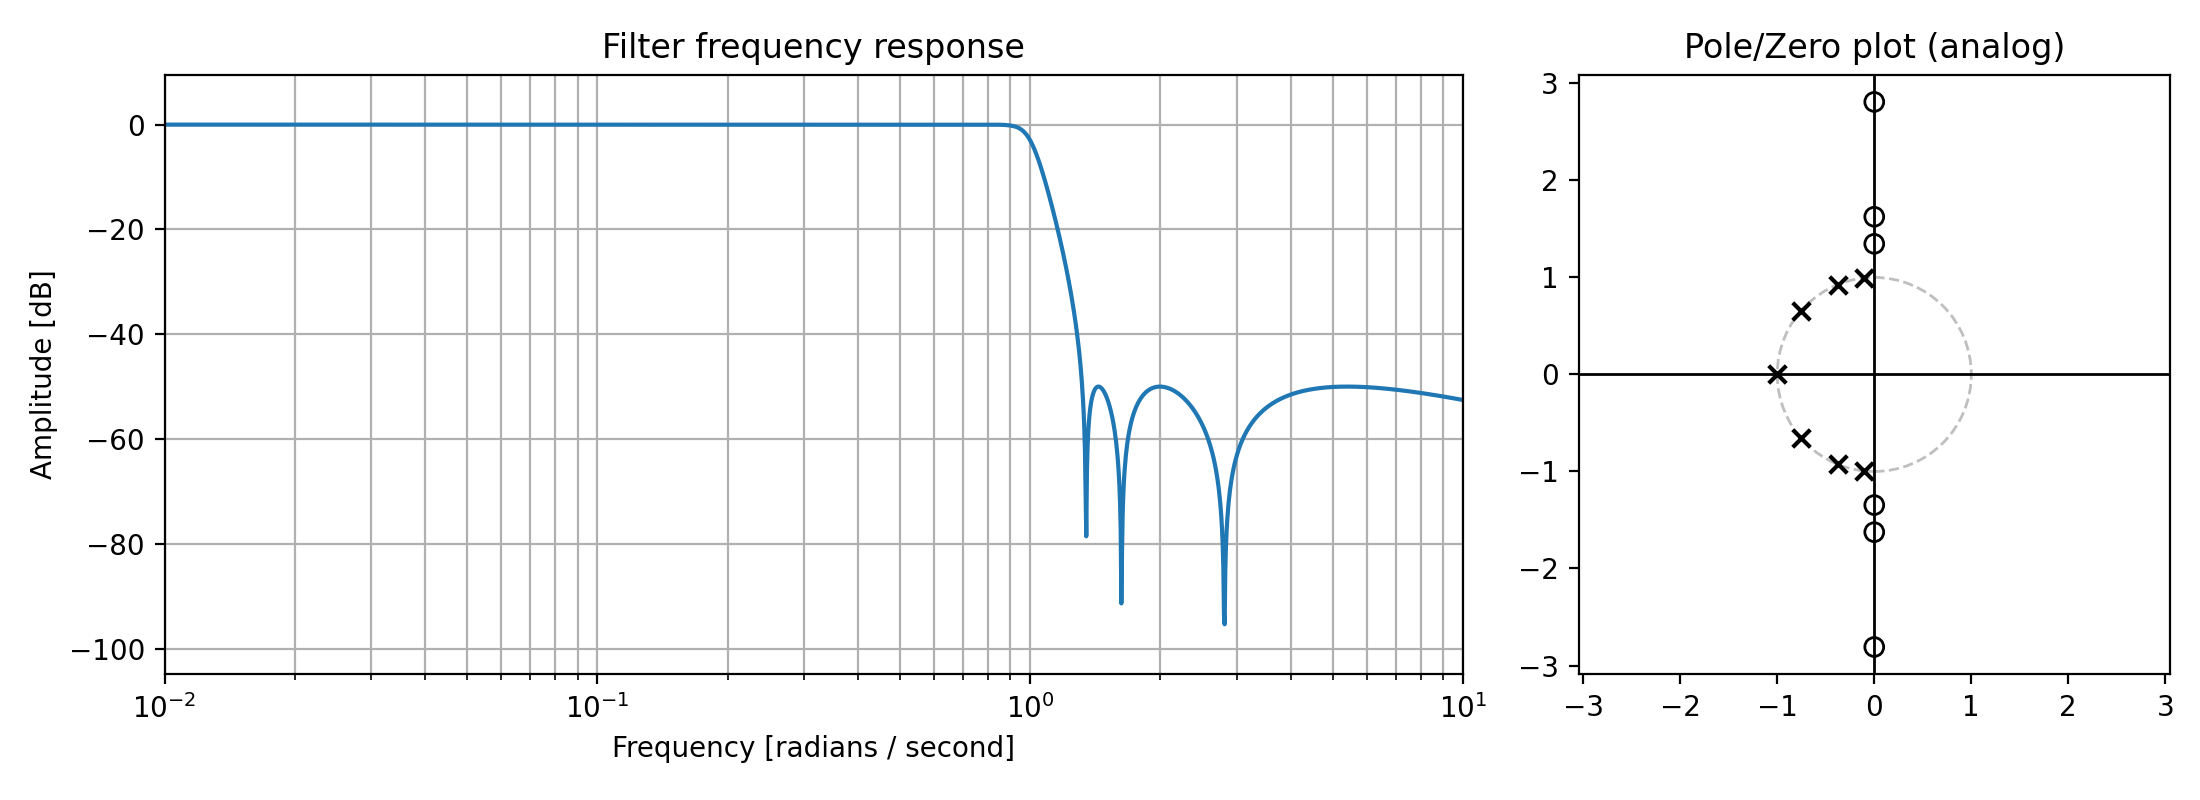
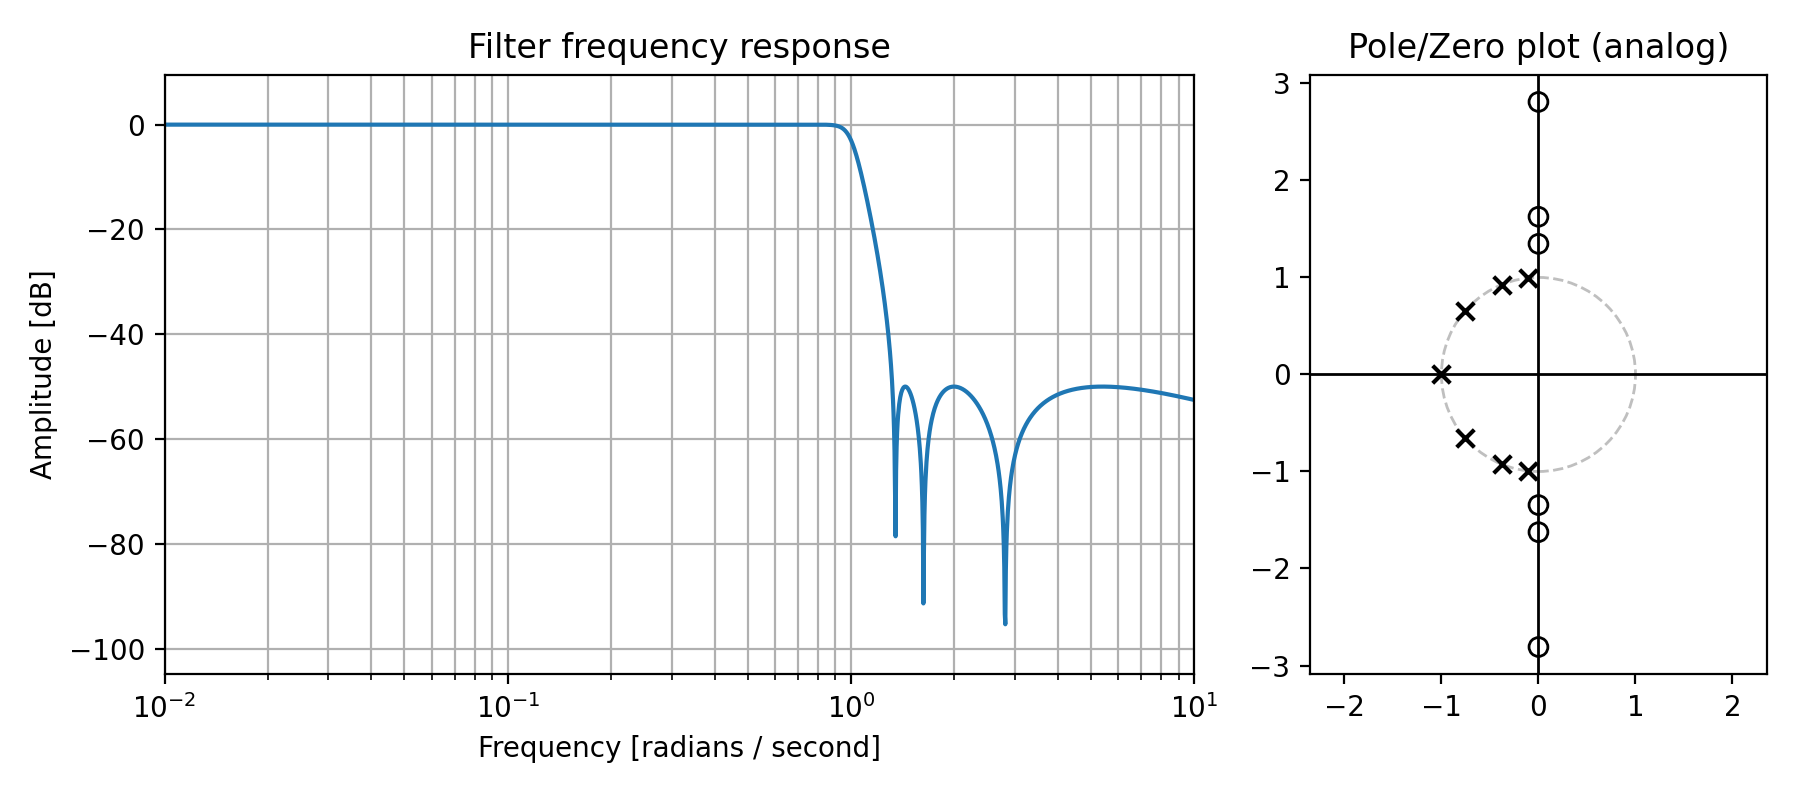
example plot

diff --git a/examples/freq_response.py b/examples/freq_response.py
@@ -9,7 +9,7 @@ from filterdesign import filterplot
 
 z, p, k = emqf.analog_lowpass(order=7, stopband_attenuation=50, f3db=True)
 
-fig_ = plt.figure(constrained_layout=True, figsize=(11, 4))
+fig_ = plt.figure(constrained_layout=True, figsize=(9, 4))
 
 gs = fig_.add_gridspec(1, 3)
 ax1 = fig_.add_subplot(gs[0, :-1])

diff --git a/README.md b/README.md
@@ -20,6 +20,7 @@ pip install "filterdesign @ git+https://github.com/raphaelw/filter-design.git"
 Design and plot filter:
 
 ```python
+import matplotlib.pyplot as plt
 from filterdesign import emqf
 from filterdesign import filterplot
 
